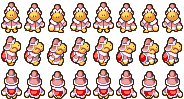
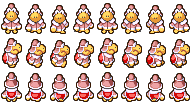
Character sheets: fix facing, clipped feet and drawn-on shadows; even cells
Audited every walk sheet (each frame of the down, right, up and mirrored
left rows) against its source sheet:
- Shopkeeper and Queen Bean looked left when facing right (their side rows
  were mirrored the wrong way), and the green Hoohoo villager's side row was
  the left-facing walk, so he walked backwards to the right.
- The Beanette's boxes cut off the bottom row of her feet, and Toadette's
  front walk lost one column of her third frame.
- The Buzzy Beetle kept the blue-grey shadow drawn under it on the source
  sheet (the game draws its own shadow).
- 16 sheets (townsfolk, Koopa, Pianta, Rosalina...) were cut before the
  slicer started padding cells to even sizes, so at the battle's 1.5x scale
  a row's feet could bleed into the frame below. All sheets are now
  regenerated from tools/slice_sprites.py; frame counts are unchanged.

Claude-Session: https://claude.ai/code/session_01PpgKxgpxtpjhyxUZ6vPiXT

diff --git a/tools/slice_sprites.py b/tools/slice_sprites.py
@@ -42,7 +42,7 @@ CHARACTERS = {
                  "rows": [(28, 19, 232, 61), (32, 105, 232, 149), (34, 149, 232, 192)], "side_faces_left": True,
                  "bg": (255, 255, 255), "flood": True},
     "toadette": {"sheet": "Playable Characters GOOD/Custom _ Edited - Mario Customs - Toadette & Peachette - Toadette (Mario & Luigi_ Superstar Saga-Style).png",
-                 "rows": [(0, 0, 104, 27), (0, 76, 150, 101), (0, 52, 183, 76)], "side_faces_left": True, "flood": True},
+                 "rows": [(0, 0, 105, 27), (0, 76, 150, 101), (0, 52, 183, 76)], "side_faces_left": True, "flood": True},
     "bowser_jr": {"sheet": "Playable Characters EVIL/Custom _ Edited - Mario Customs - Bowser Jr. - Bowser Jr. (Mario & Luigi_ Superstar Saga-Style).png",
                   "rows": [(278, 112, 313, 155), (372, 112, 405, 155), (313, 112, 343, 155)], "side_faces_left": True},
     "shadow_mario": {"sheet": "Playable Characters EVIL/Custom _ Edited - Mario Customs - Other Bosses - Shadow Mario (Mario & Luigi_ Superstar Saga-Style).png",
@@ -58,7 +58,7 @@ CHARACTERS = {
     "shy_guy": {"sheet": "Enemies/Custom _ Edited - Mario Customs - Shy Guy, Snifit & Related Enemies - Shy Guy (Mario & Luigi_ Superstar Saga-Style).png",
                 "rows": [(0, 30, 175, 75)] * 3, "side_faces_left": True, "strip": [(84, 109, 142)]},
     "buzzy_beetle": {"sheet": "Enemies/Custom _ Edited - Mario Customs - Buzzy Beetle, Spiny & Related Enemies - Buzzy Beetle (Mario & Luigi_ Superstar Saga-Style).png",
-                     "rows": [(0, 27, 220, 55)] * 3, "side_faces_left": True},
+                     "rows": [(0, 27, 220, 55)] * 3, "side_faces_left": True, "strip": [(84, 109, 142)]},
     # Phase 6 roster. Battle-style sheets with one pose (Vivian, Mimi,
     # Bombette) repeat the same box for all three rows.
     "egadd": {"sheet": "Playable Characters GOOD/Game Boy Advance - Mario & Luigi_ Superstar Saga - Non-Playable Characters - Professor E. Gadd.png",
@@ -109,11 +109,11 @@ NPCS = {
     "bean_elder": {"sheet": _RESIDENTS, "rows": [(23, 2, 40, 28), (60, 2, 77, 28), (41, 2, 58, 28)], "side_faces_left": False},
     "bean_villager": {"sheet": _RESIDENTS, "rows": [(101, 2, 119, 36), (141, 2, 159, 36), (121, 2, 139, 36)], "side_faces_left": False},
     "bean_kid": {"sheet": _RESIDENTS, "rows": [(264, 2, 281, 36), (302, 2, 319, 36), (283, 2, 300, 36)], "side_faces_left": False},
-    "bean_girl": {"sheet": _RESIDENTS, "rows": [(21, 180, 38, 211), (60, 180, 77, 211), (40, 180, 57, 211)], "side_faces_left": False},
+    "bean_girl": {"sheet": _RESIDENTS, "rows": [(21, 180, 38, 212), (60, 180, 77, 212), (40, 180, 57, 212)], "side_faces_left": False},
     "bean_guard": {"sheet": _NPC + "Beanbean Guards.png",
                    "rows": [(0, 3, 226, 39), (0, 42, 180, 78), (0, 79, 226, 115)], "side_faces_left": True},
     "shopkeeper": {"sheet": "Maps/Game Boy Advance - Mario & Luigi_ Superstar Saga - Maps - Beanbean Castle Town Shop (Interior).png",
-                   "rows": [(188, 116, 295, 153), (188, 44, 295, 82), (188, 153, 295, 190)], "side_faces_left": True, "flood": True},
+                   "rows": [(188, 116, 295, 153), (188, 44, 295, 82), (188, 153, 295, 190)], "side_faces_left": False, "flood": True},
     "toad_blue": {"sheet": _NPC + "Toads.png", "rows": [(0, 2, 176, 35), (0, 35, 176, 67), (0, 69, 176, 101)], "side_faces_left": True},
     "toadsworth": {"sheet": _NPC + "Toadsworth.png", "rows": [(0, 60, 145, 89), (0, 29, 145, 58), (0, 91, 145, 120)], "side_faces_left": True},
     "dr_toad": {"sheet": _NPC + "Dr. Toad.png", "rows": [(0, 4, 176, 35), (0, 75, 176, 106), (0, 40, 176, 71)],
@@ -121,13 +121,13 @@ NPCS = {
     "lady_lima": {"sheet": _NPC + "Lady Lima.png", "rows": [(225, 48, 350, 85), (225, 86, 360, 123), (225, 12, 350, 49)],
                   "side_faces_left": False, "flood": True},
     "queen_bean": {"sheet": _NPC + "Queen Bean.png", "rows": [(3, 670, 54, 715), (423, 670, 464, 715), (213, 670, 264, 715)],
-                   "side_faces_left": False},
+                   "side_faces_left": True},
     "koopa_troop": {"sheet": _NPC + "Koopa Troopas.png", "rows": [(0, 5, 212, 40), (0, 40, 212, 75), (0, 76, 212, 111)], "side_faces_left": False},
     "koopa_troop_red": {"sheet": _NPC + "Koopa Troopas.png", "rows": [(0, 117, 212, 152), (0, 152, 212, 187), (0, 188, 212, 223)],
                         "side_faces_left": False},
     "border_bro": {"sheet": _NPC + "Border Bros.png", "rows": [(12, 32, 128, 74), (12, 82, 146, 122), (130, 32, 250, 74)],
                    "side_faces_left": False, "flood": True},
-    "hoohoo_villager": {"sheet": _NPC + "Hoohooligans.png", "rows": [(0, 104, 150, 142), (0, 67, 150, 103), (0, 29, 150, 67)],
+    "hoohoo_villager": {"sheet": _NPC + "Hoohooligans.png", "rows": [(0, 104, 150, 142), (0, 141, 150, 179), (0, 29, 150, 67)],
                         "side_faces_left": False, "strip": [(80, 80, 80)]},
     "hoohoo_villager_b": {"sheet": _NPC + "Hoohooligans.png", "rows": [(150, 104, 295, 142), (150, 141, 295, 179), (150, 29, 295, 67)],
                           "side_faces_left": False, "strip": [(80, 80, 80)]},
